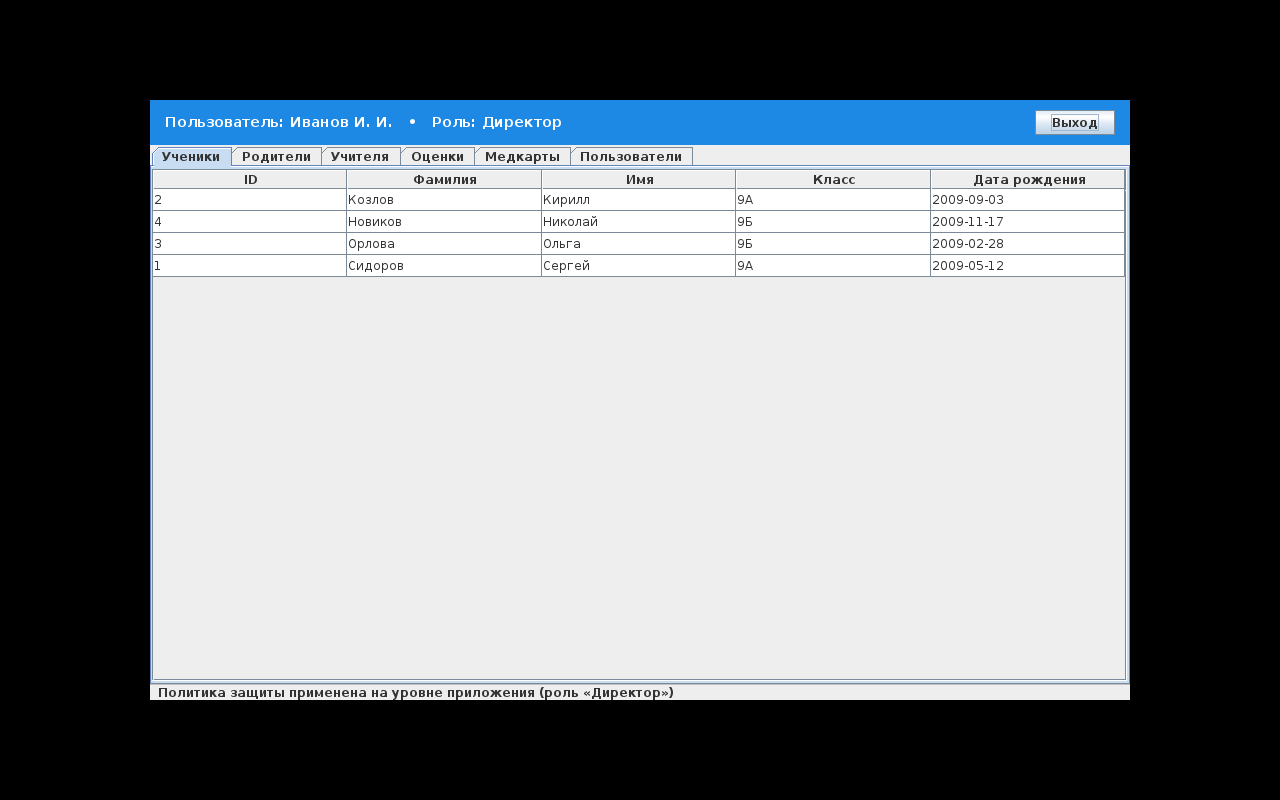
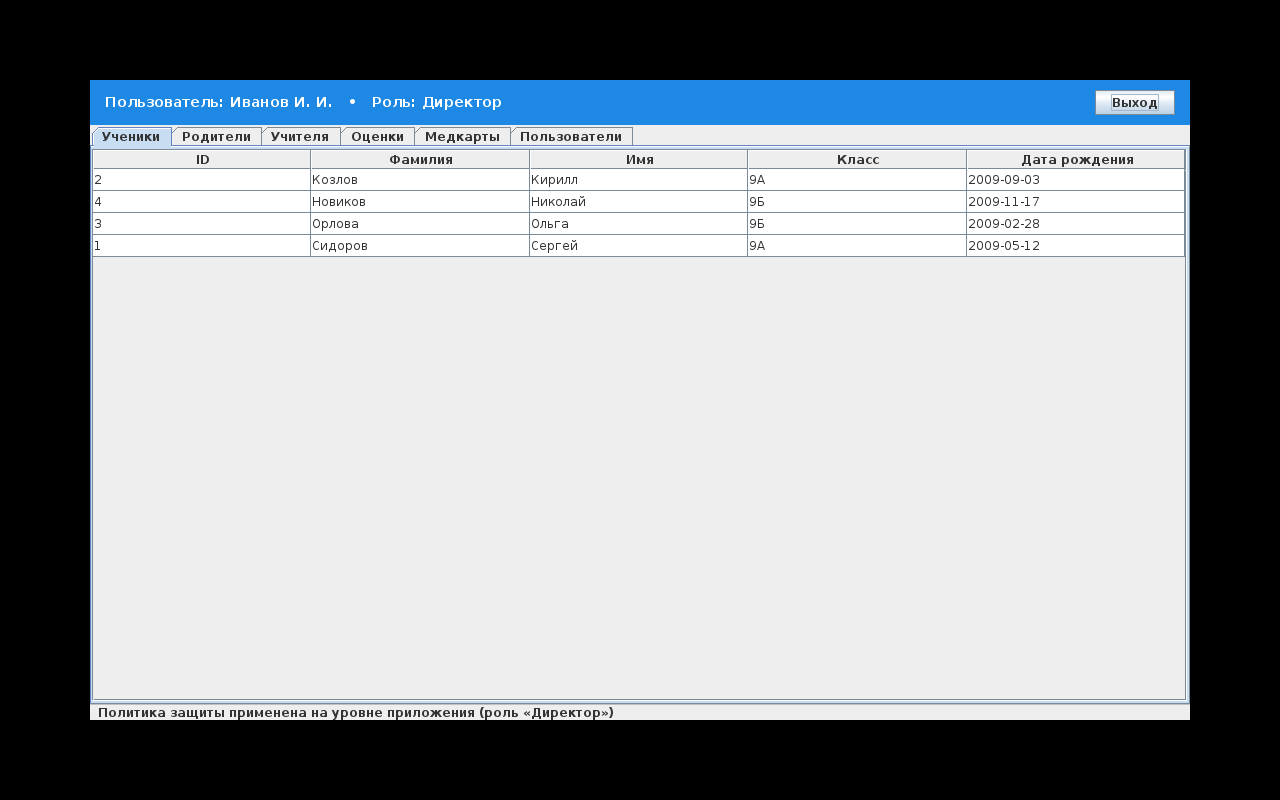
Fix login dialog sizing for macOS/HiDPI
Use pack() + setMinimumSize instead of hard-coded setSize so that
the login form is laid out correctly under Aqua Look&Feel on macOS
where component fonts are larger. Enlarged fonts, preferred field
sizes and paddings for consistent appearance. Main window now also
packs + keeps a minimum size.

Changed region(s): [[0.0625, 0.0938, 0.9375, 0.9062]]

diff --git a/SchoolApp/src/SchoolApp.java b/SchoolApp/src/SchoolApp.java
@@ -128,42 +128,58 @@ public class SchoolApp {
         LoginDialog() {
             super("Школьная ИС — Вход в систему");
             setDefaultCloseOperation(EXIT_ON_CLOSE);
-            setSize(440, 300);
-            setLocationRelativeTo(null);
 
-            JPanel root = new JPanel(new BorderLayout(10,10));
-            root.setBorder(new EmptyBorder(20,20,20,20));
+            JPanel root = new JPanel(new BorderLayout(12, 12));
+            root.setBorder(new EmptyBorder(24, 28, 24, 28));
 
-            JLabel title = new JLabel("Информационная система школы", SwingConstants.CENTER);
-            title.setFont(title.getFont().deriveFont(Font.BOLD, 18f));
+            JLabel title = new JLabel(
+                "Информационная система школы", SwingConstants.CENTER);
+            title.setFont(title.getFont().deriveFont(Font.BOLD, 20f));
+            title.setBorder(new EmptyBorder(0, 0, 12, 0));
             root.add(title, BorderLayout.NORTH);
 
             JPanel form = new JPanel(new GridBagLayout());
             GridBagConstraints g = new GridBagConstraints();
-            g.insets = new Insets(6,6,6,6);
+            g.insets = new Insets(8, 8, 8, 8);
             g.anchor = GridBagConstraints.WEST;
+            g.fill   = GridBagConstraints.HORIZONTAL;
 
             JLabel l1 = new JLabel("Логин:");
             JLabel l2 = new JLabel("Пароль:");
-            JTextField tfLogin = new JTextField(18);
-            JPasswordField tfPass = new JPasswordField(18);
+            l1.setFont(l1.getFont().deriveFont(14f));
+            l2.setFont(l2.getFont().deriveFont(14f));
 
-            g.gridx=0; g.gridy=0; form.add(l1, g);
-            g.gridx=1;            form.add(tfLogin, g);
-            g.gridx=0; g.gridy=1; form.add(l2, g);
-            g.gridx=1;            form.add(tfPass, g);
+            JTextField tfLogin = new JTextField(20);
+            JPasswordField tfPass = new JPasswordField(20);
+            tfLogin.setFont(tfLogin.getFont().deriveFont(14f));
+            tfPass.setFont(tfPass.getFont().deriveFont(14f));
+            // Гарантируем, что поле не «схлопнется» под pack():
+            Dimension fieldSize = new Dimension(260, 30);
+            tfLogin.setPreferredSize(fieldSize);
+            tfPass.setPreferredSize(fieldSize);
+
+            g.gridx=0; g.gridy=0; g.weightx=0;               form.add(l1,      g);
+            g.gridx=1; g.gridy=0; g.weightx=1;               form.add(tfLogin, g);
+            g.gridx=0; g.gridy=1; g.weightx=0;               form.add(l2,      g);
+            g.gridx=1; g.gridy=1; g.weightx=1;               form.add(tfPass,  g);
 
             JLabel info = new JLabel(
-                "<html><small>Тестовые учётные записи:<br>" +
+                "<html><div style='font-size:11px;color:#555;'>" +
+                "<b>Тестовые учётные записи:</b><br>" +
                 "ivanov_dir / pwd_dir&nbsp;&nbsp;(директор)<br>" +
                 "petrov_t / pwd_tch&nbsp;&nbsp;(учитель)<br>" +
                 "sidorov_s / pwd_stud&nbsp;&nbsp;(учащийся)<br>" +
-                "kuzmina_med / pwd_med&nbsp;&nbsp;(фельдшер)</small></html>");
-            g.gridx=0; g.gridy=2; g.gridwidth=2; form.add(info, g);
+                "kuzmina_med / pwd_med&nbsp;&nbsp;(фельдшер)" +
+                "</div></html>");
+            g.gridx=0; g.gridy=2; g.gridwidth=2; g.weightx=1;
+            g.insets = new Insets(16, 8, 8, 8);
+            form.add(info, g);
 
             root.add(form, BorderLayout.CENTER);
 
             JButton btn = new JButton("Войти");
+            btn.setFont(btn.getFont().deriveFont(Font.BOLD, 14f));
+            btn.setPreferredSize(new Dimension(140, 34));
             btn.addActionListener(e -> {
                 try (Connection c = DriverManager.getConnection(DB_URL)) {
                     User u = User.authenticate(c,
@@ -186,10 +202,15 @@ public class SchoolApp {
                 }
             });
             getRootPane().setDefaultButton(btn);
-            JPanel south = new JPanel();
+            JPanel south = new JPanel(new FlowLayout(FlowLayout.CENTER));
+            south.setBorder(new EmptyBorder(8, 0, 0, 0));
             south.add(btn);
             root.add(south, BorderLayout.SOUTH);
             setContentPane(root);
+
+            pack();
+            setMinimumSize(new Dimension(460, getHeight()));
+            setLocationRelativeTo(null);
         }
     }
 
@@ -209,9 +230,11 @@ public class SchoolApp {
                 throw new RuntimeException(ex);
             }
             setDefaultCloseOperation(EXIT_ON_CLOSE);
-            setSize(980, 600);
-            setLocationRelativeTo(null);
             buildUI();
+            pack();
+            setMinimumSize(new Dimension(900, 560));
+            setSize(new Dimension(1100, 640));
+            setLocationRelativeTo(null);
         }
 
         private void buildUI() {
@@ -220,6 +243,7 @@ public class SchoolApp {
             // Верхняя панель
             JPanel top = new JPanel(new BorderLayout());
             top.setBorder(new EmptyBorder(10,15,10,15));
+            top.setOpaque(true);
             top.setBackground(new Color(0x1E, 0x88, 0xE5));
             JLabel lbl = new JLabel("Пользователь: " + user.fullName +
                 "   •   Роль: " + user.roleRus());
@@ -229,7 +253,10 @@ public class SchoolApp {
 
             JButton logout = new JButton("Выход");
             logout.addActionListener(e -> { dispose(); new LoginDialog().setVisible(true); });
-            top.add(logout, BorderLayout.EAST);
+            JPanel logoutWrap = new JPanel(new FlowLayout(FlowLayout.RIGHT, 0, 0));
+            logoutWrap.setOpaque(false);
+            logoutWrap.add(logout);
+            top.add(logoutWrap, BorderLayout.EAST);
 
             root.add(top, BorderLayout.NORTH);
 
